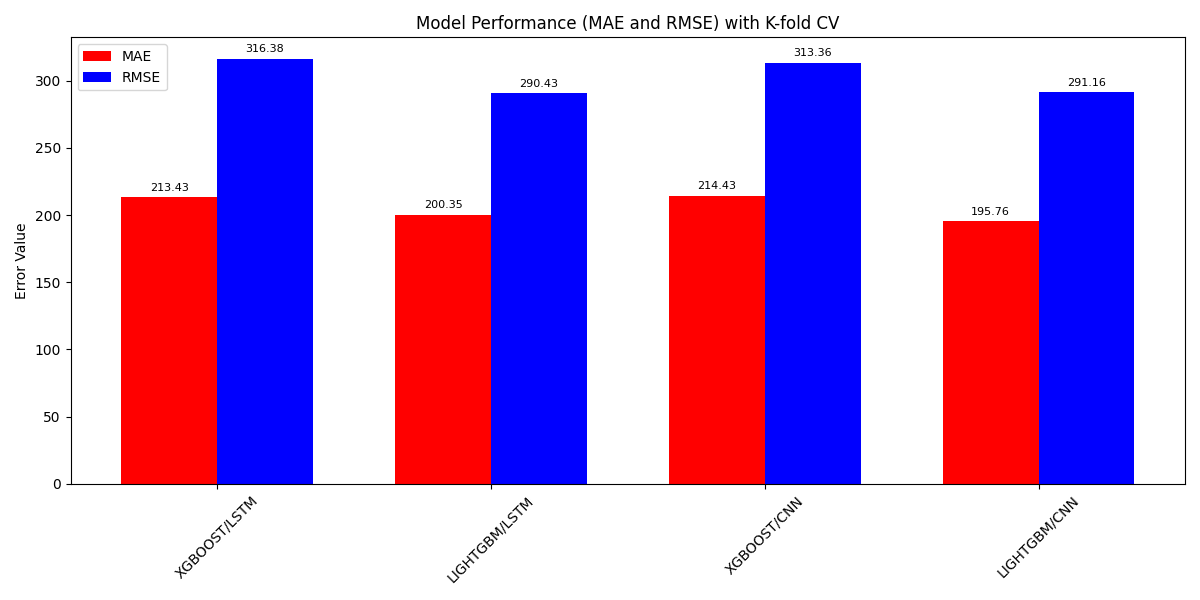
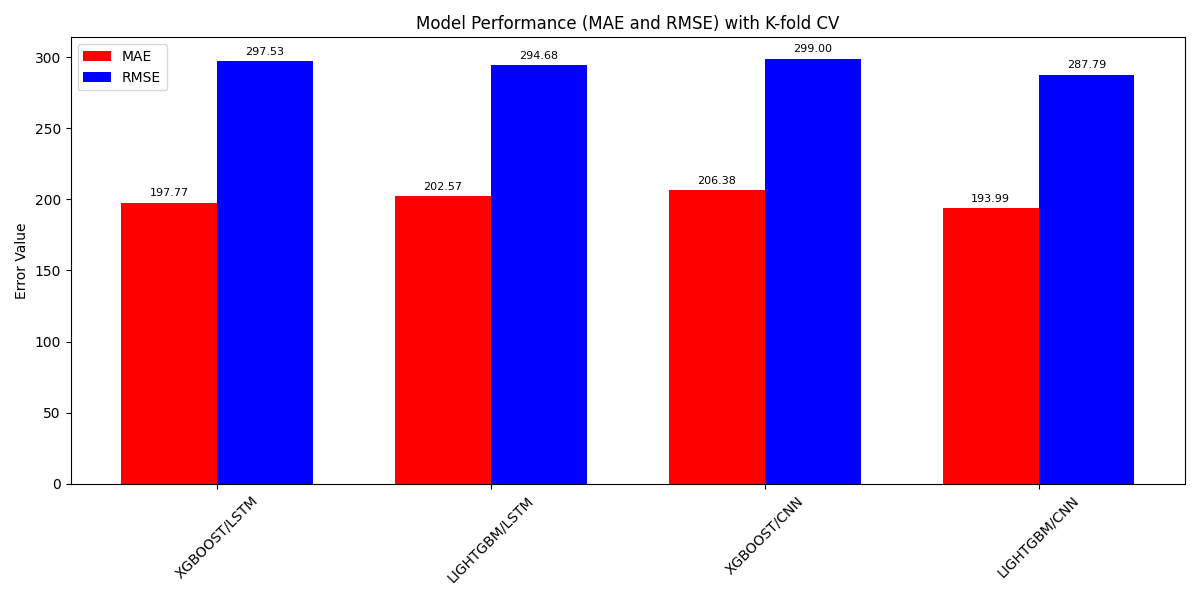
Changed from KNN imputer to random forest regression imputer. Changed from normal KFold to StratifiedKFold. Changed the feature weights

diff --git a/models.py b/models.py
@@ -1,12 +1,12 @@
-# models.py
 import xgboost as xgb
 import lightgbm as lgb
 import numpy as np
-from sklearn.model_selection import KFold
+from sklearn.model_selection import KFold, train_test_split, StratifiedKFold
+from sklearn.preprocessing import KBinsDiscretizer
 import tensorflow as tf
-from keras.layers import Dense, LSTM, Conv1D, Flatten, Input, Dropout, BatchNormalization  # type: ignore
-from keras.callbacks import EarlyStopping, ReduceLROnPlateau  # type: ignore
-from keras.optimizers import Adam  # type: ignore
+from keras.layers import Dense, LSTM, Conv1D, Flatten, Input, Dropout, BatchNormalization # type: ignore
+from keras.callbacks import EarlyStopping, ReduceLROnPlateau # type: ignore
+from keras.optimizers import Adam # type: ignore
 
 class HybridModels:
     def __init__(self, data, n_splits=5):
@@ -21,21 +21,28 @@ class HybridModels:
         self.X = data.drop(columns=["score"]).values
         self.y = data["score"].values
         self.n_splits = n_splits
-        self.kf = KFold(n_splits=n_splits, shuffle=True, random_state=32)
         self.feature_names = data.drop(columns=["score"]).columns.tolist()
         
-        # Define importance weights for key GPU features based on domain knowledge
+        # Create stratification bins for performance scores
+        self.stratifier = KBinsDiscretizer(n_bins=10, encode='ordinal', strategy='quantile')
+        self.y_binned = self.stratifier.fit_transform(self.y.reshape(-1, 1)).ravel()
+        
+        # Initialize stratified k-fold
+        self.kf = StratifiedKFold(n_splits=n_splits, shuffle=True, random_state=32)
+        
+        # Define importance weights for key GPU features
         self.feature_weights = {
-            'memSize': 2.5,     # Memory size has highest impact
-            'gpuClock': 2.3,    # GPU clock speed is second most important
-            'unifiedShader': 2.0, # Shader units have significant impact
-            'gpuChip': 1.5,     # GPU chip architecture matters
-            'memBusWidth': 1.6, # Memory bus width affects performance
-            'memClock': 1.6     # Memory clock speed is important
+            'memSize': 2.3,
+            'gpuClock': 2.4,
+            'unifiedShader': 1.8,
+            'gpuChip': 1.6,
+            'memBusWidth': 1.5,
+            'memClock': 1.5
         }
         
-        # Convert feature weights to list matching feature order in dataset
-        self.feature_weight_list = [self.feature_weights.get(feat, 1.0) for feat in self.feature_names]
+        # Convert feature weights to list matching feature order
+        self.feature_weight_list = [self.feature_weights.get(feat, 1.0) 
+                                  for feat in self.feature_names]
     
     def create_lstm_model(self, input_shape):
         """
@@ -80,7 +87,7 @@ class HybridModels:
         # Deep CNN architecture with batch normalization and dropout
         x = Conv1D(256, kernel_size=3, activation='relu', padding='same')(weighted_inputs)
         x = BatchNormalization()(x)
-        x = Dropout(0.3)(x)
+        x = Dropout(0.2)(x)
         x = Conv1D(128, kernel_size=3, activation='relu', padding='same')(x)
         x = BatchNormalization()(x)
         x = Dropout(0.2)(x)
@@ -96,7 +103,8 @@ class HybridModels:
         model.compile(optimizer=optimizer, loss='huber')
         return model
     
-    def train_deep_model(self, model, features_train, features_val, y_train, y_val, model_name, epochs=200, batch_size=16):
+    def train_deep_model(self, model, features_train, features_val, y_train, y_val, 
+                        model_name, epochs=200, batch_size=16):
         """
         Train a deep learning model with early stopping and learning rate reduction.
         """
@@ -111,7 +119,7 @@ class HybridModels:
             ReduceLROnPlateau(
                 monitor='val_loss',
                 factor=0.2,
-                patience=7,
+                patience=6,
                 min_lr=1e-7,
                 min_delta=1e-5
             )
@@ -128,7 +136,7 @@ class HybridModels:
         )
         
         # Calculate and print performance metrics
-        predictions = model.predict(features_val).flatten()
+        predictions = model.predict(features_val, verbose=0).flatten()
         rmse = np.sqrt(np.mean((predictions - y_val) ** 2)) * 1000
         print(f'{model_name} RMSE: {rmse:.2f}')
         
@@ -201,7 +209,7 @@ class HybridModels:
     
     def _train_hybrid_model(self, name, tree_model_func, deep_model_func):
         """
-        Internal method to train a hybrid model using k-fold cross validation.
+        Internal method to train a hybrid model using stratified k-fold cross validation.
         
         Args:
             name: Name of the tree-based model ('xgboost' or 'lightgbm')
@@ -220,8 +228,8 @@ class HybridModels:
         best_score = float('inf')
         best_models = None
         
-        # Perform k-fold cross validation
-        for fold, (train_idx, val_idx) in enumerate(self.kf.split(self.X)):
+        # Perform stratified k-fold cross validation
+        for fold, (train_idx, val_idx) in enumerate(self.kf.split(self.X, self.y_binned)):
             # Split data for current fold
             X_train = self.X[train_idx]
             X_val = self.X[val_idx]

diff --git a/data_preparation.py b/data_preparation.py
@@ -1,11 +1,12 @@
-# data_preparation.py
 import os
 import json
 import warnings
 import pandas as pd
 import numpy as np
 from sklearn.preprocessing import StandardScaler, LabelEncoder
-from sklearn.impute import KNNImputer
+from sklearn.experimental import enable_iterative_imputer  # This import is required
+from sklearn.impute import IterativeImputer
+from sklearn.ensemble import RandomForestRegressor
 import joblib
 
 # Suppress warnings for cleaner output
@@ -22,7 +23,7 @@ class DataPreparation:
         self.file_path = file_path
         self.data = None
         self.label_encoders = {}
-        self.knn_imputer = None
+        self.reg_imputer = None
         self.scaler = None
         self.score_scaler = None
         
@@ -69,7 +70,7 @@ class DataPreparation:
         1. Load and clean data
         2. Handle outliers
         3. Encode categorical features
-        4. Impute missing values
+        4. Impute missing values using regression
         5. Scale numerical features
         6. Verify scaling accuracy
         """
@@ -92,11 +93,18 @@ class DataPreparation:
             self.label_encoders[column] = LabelEncoder()
             self.data[column] = self.label_encoders[column].fit_transform(self.data[column])
 
-        # Impute missing values using KNN
-        self.knn_imputer = KNNImputer(n_neighbors=5, weights='distance')
+        # Initialize regression imputer with RandomForestRegressor
+        self.reg_imputer = IterativeImputer(
+            estimator=RandomForestRegressor(n_estimators=200, random_state=32),
+            random_state=32,
+            max_iter=10,
+            initial_strategy='mean'
+        )
+        
+        # Impute missing values using regression
         impute_columns = ["memSize", "memBusWidth", "memClock"]
         impute_data = self.data[impute_columns].copy()
-        self.data[impute_columns] = self.knn_imputer.fit_transform(impute_data)
+        self.data[impute_columns] = self.reg_imputer.fit_transform(impute_data)
 
         # Initialize scalers for features and target
         self.scaler = StandardScaler()

diff --git a/main.py b/main.py
@@ -10,9 +10,7 @@ from models import HybridModels
 from model_performance_chart import plot_model_performance
 
 def create_directory_structure():
-    """
-    Create necessary directories for model saving.
-    
+    """    
     Creates a hierarchical directory structure for organizing model artifacts:
     - base_dir: Root directory for all model-related files
     - data_processing_dir: Directory for data preprocessing components
@@ -43,8 +41,8 @@ def save_data_processing_components(data_prep, encoders_dir, data_processing_dir
     for column, encoder in data_prep.label_encoders.items():
         joblib.dump(encoder, os.path.join(encoders_dir, f'le_{column}.pkl'))
     
-    # Save KNN imputer for handling missing values and scaler for feature normalization
-    joblib.dump(data_prep.knn_imputer, os.path.join(data_processing_dir, 'knn_imputer.pkl'))
+    # Save regression imputer for handling missing values and scaler for feature normalization
+    joblib.dump(data_prep.reg_imputer, os.path.join(data_processing_dir, 'reg_imputer.pkl'))
     joblib.dump(data_prep.scaler, os.path.join(data_processing_dir, 'scaler.pkl'))
 
 def calculate_metrics(predictions, true_values):
@@ -124,7 +122,7 @@ def main():
                 'memType': os.path.join(encoders_dir, 'le_memType.pkl'),
                 'manufacturer': os.path.join(encoders_dir, 'le_manufacturer.pkl')
             },
-            'knn_imputer': os.path.join(data_processing_dir, 'knn_imputer.pkl'),
+            'reg_imputer': os.path.join(data_processing_dir, 'reg_imputer.pkl'),
             'scaler': os.path.join(data_processing_dir, 'scaler.pkl')
         }
     }

diff --git a/inference.py b/inference.py
@@ -35,8 +35,8 @@ class GPUPredictor:
                     os.path.join(encoders_dir, f'le_{column}.pkl')
                 )
             
-            # Load KNN imputer and scaler
-            self.knn_imputer = joblib.load(os.path.join(data_processing_dir, 'knn_imputer.pkl'))
+            # Load regression imputer and scaler
+            self.reg_imputer = joblib.load(os.path.join(data_processing_dir, 'reg_imputer.pkl'))
             self.scaler = joblib.load(os.path.join(data_processing_dir, 'scaler.pkl'))
             
             # Load models
@@ -78,10 +78,10 @@ class GPUPredictor:
             for column in self.categorical_columns:
                 df[column] = self.label_encoders[column].transform(df[column].astype(str))
             
-            # Handle missing values with KNN imputation
+            # Handle missing values with regression imputation
             impute_columns = ["memSize", "memBusWidth", "memClock"]
             impute_data = df[impute_columns].copy()
-            df[impute_columns] = self.knn_imputer.transform(impute_data)
+            df[impute_columns] = self.reg_imputer.transform(impute_data)
             
             # Scale numerical features
             df[self.numerical_columns] = self.scaler.transform(df[self.numerical_columns])
